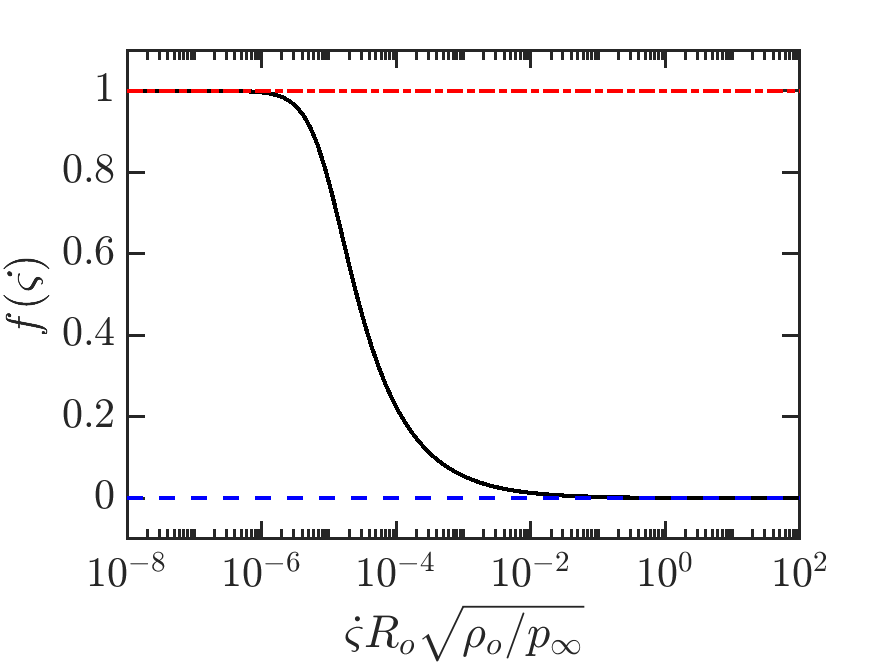
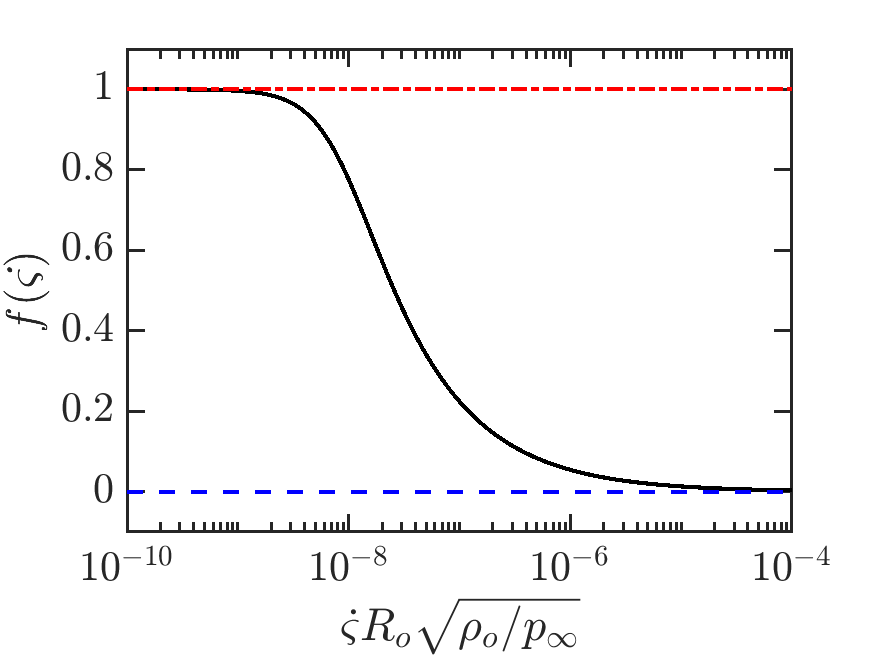
updated baseline case radius, fixed figures for manuscript

diff --git a/m_shear_analysis.m b/m_shear_analysis.m
@@ -1,7 +1,7 @@
 close all; clear; clc;
 routines = strcat(pwd,'/src');
 addpath(genpath(routines));
-R0 = 500E-6; vmaterial = 'blood_combined';
+R0 = 0.5E-6; vmaterial = 'blood_combined';
 [Pmt] = f_call_parameters(R0,vmaterial);
 Re8 = Pmt(6); DRe = Pmt(24);
 v_nc = Pmt(26); v_lambda = Pmt(27);
@@ -9,8 +9,8 @@ lm = 'k';
 
 figure(1)
 hold on
-xlabel('$\dot{\varsigma}|_R R_o \sqrt{\rho_o/p_{\infty}}$', 'Interpreter', 'Latex', 'FontSize', 20); 
-ylabel('$\tau_{rr}|_R / p_{\infty}$', 'Interpreter', 'Latex', 'FontSize', 20); 
+xlabel('$\dot{\varsigma} R_o \sqrt{\rho_o/p_{\infty}}$', 'Interpreter', 'Latex', 'FontSize', 20); 
+ylabel('$\tau_{rr} / p_{\infty}$', 'Interpreter', 'Latex', 'FontSize', 20); 
 %leg = legend('$\mu_{water}$','$\mu_{blood,\infty}$', '$\mu_{blood}$', '$\mu_{blood,0}$' ); 
 %set(leg,'Interpreter','latex','Location','northeast');
 %set(leg,'FontSize',18);
@@ -21,10 +21,10 @@ axis tight;
 xa = gca;
 xa.TickLength = [.025 .025];
 xa.LineWidth = 1.5;
-set(gca,'XLim',[1e-7 1e0],'XTick',10.^(-6:2:0), ...
+set(gca,'XLim',[1e-10 1e-2],'XTick',10.^(-10:2:-2), ...
         'YLim',[1e-10 1e-2],'YTick',10.^(-10:2:-2))
 box on;
-sgammadot_R = logspace(-8,0,100);
+sgammadot_R = logspace(-10,-2,100);
 sf = sf_carreau(v_nc,v_lambda,sgammadot_R);
 tau8 = 2*(0./DRe + 1./Re8)*sgammadot_R;
 tau0 = 2*(1./DRe+1./Re8)*sgammadot_R;
@@ -50,11 +50,11 @@ axis tight;
 xa = gca;
 xa.TickLength = [.025 .025];
 xa.LineWidth = 1.5;
-set(gca,'XLim',[1e-8 1e2],'XTick',10.^(-8:2:2));
+set(gca,'XLim',[1e-10 1e-4],'XTick',10.^(-10:2:-4));
 set(gca,'XScale','log');
 ylim([-.1 1.1]);
 box on;
-sgammadot_R = logspace(-8,2,100);
+sgammadot_R = logspace(-10,-4,100);
 sf = sf_carreau(v_nc,v_lambda,sgammadot_R);
 s8 = zeros(size(sf));
 s0 = ones(size(sf));

diff --git a/post_processing/r_ffield.m b/post_processing/r_ffield.m
@@ -1,7 +1,9 @@
+tend = 30;
 lR = length(R);
 lr_max = 100;
 lr_N = 200;
-r_coord = ones(lR,lr_N).*logspace(-0.5,2.5,lr_N);
+lr_length = 4;
+r_coord = ones(lR,lr_N).*logspace(-0.5,lr_length,lr_N);
 % calculating the shear
 varsigmadot_r = f_gammadot_r(r_coord,R,U,lR,lr_N);
 f_r = sf_carreau(v_nc,v_lambda,varsigmadot_r);
@@ -28,9 +30,13 @@ cbar.Label.Position = [pos(1) -0.04];
 cbar.Label.Rotation = 0;
 cbar.Label.Interpreter = 'latex';
 caxis([0 1]);
+xlim([0 tend]);
 set(gcf,'color','w');
 set(gca,'FontName','Times','FontSize',20);
 set(gca,'TickLabelInterpreter','latex')
+xa = gca;
+xa.TickLength = [.015 .015];
+xa.LineWidth = 1.5;
 box on;
 plot(t, log10(R),lm,'LineWidth',3); 
 contourf(xcon',ycon',f_r,clevels,'edgecolor','none')
@@ -50,6 +56,7 @@ cbar.Label.Position = [pos(1) -1.04];
 cbar.Label.Rotation = 0;
 cbar.Label.Interpreter = 'latex';
 caxis([-1 1])
+xlim([0 tend]);
 set(gcf,'color','w');
 set(gca,'FontName','Times','FontSize',20);
 set(gca,'TickLabelInterpreter','latex')

diff --git a/m_run_cavitation_baseline.m b/m_run_cavitation_baseline.m
@@ -8,9 +8,9 @@ addpath(post);
 
 % All quantities below are in SI units (s,m)
 % time to run simulation 
-tend = 2.5E-3;            
+tend = 1.5E-6;
 % Initital Radii 
-R0 = 500e-6;                    
+R0 = 0.5E-6;
 % Ammount of nodes inside the bubble (~100 is a good to start)
 NT = 50; 
 % Ammount of nodes outside the bubble (~100 is a good to start)
@@ -18,7 +18,7 @@ NTM = 60;
 % Type of external forcing. Refer to RP_Cav
 Pext_type = 'GS'; 
 % [ Pressure ; Freq ] 
-Pext_Amp_Freq =[1E5 0]; 
+Pext_Amp_Freq =[5E5 0]; 
 % 1 : display simulation time, 0 : do not display
 disptime = 0; 
 % Thermal effects inside bubble, 1: yes, 0: no

diff --git a/src/m_cavitation.m b/src/m_cavitation.m
@@ -155,7 +155,7 @@ Cdel = [];
 % March equations in time 
 % options = odeset('RelTol',1e-10); %Tune tolerances of simulation
 % [t,X] = ode45(@fun,time_span,X0,options) <== Syntax 
-    opts = odeset('RelTol',1e-8);
+    opts = odeset('RelTol',1e-8,'AbsTol',1E-8);
     X0 = [R0_star U0_star P0_star Tau0 C0 Tm0 ]; 
     [t , X] = ode23tb(@bubble, [0 tspan_star] , X0, opts);
     R = X(:,1); % Bubble wall Radius 

diff --git a/post_processing/r_fig_baseline.m b/post_processing/r_fig_baseline.m
@@ -1,5 +1,5 @@
-tend = t(end);
-tickrange= [0:10:tend];
+tend = 30;
+tickrange= [0:5:tend];
 lma = 'r';
 % SETTING UP THE FIGURES
 figure(1)  
